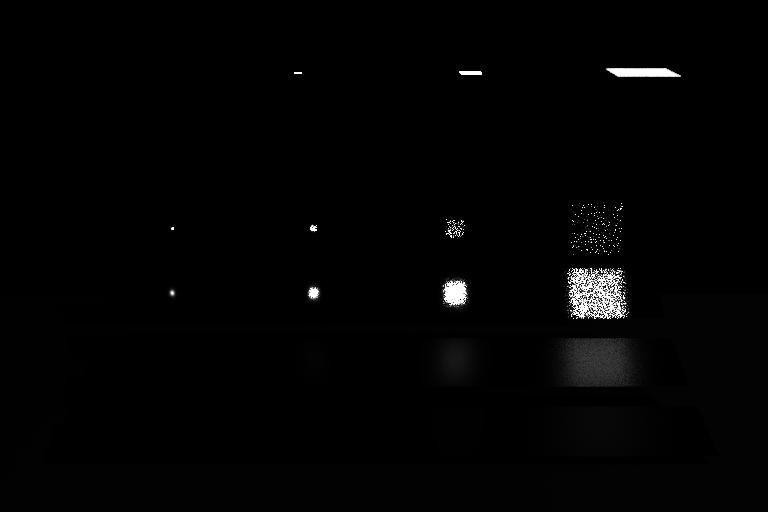
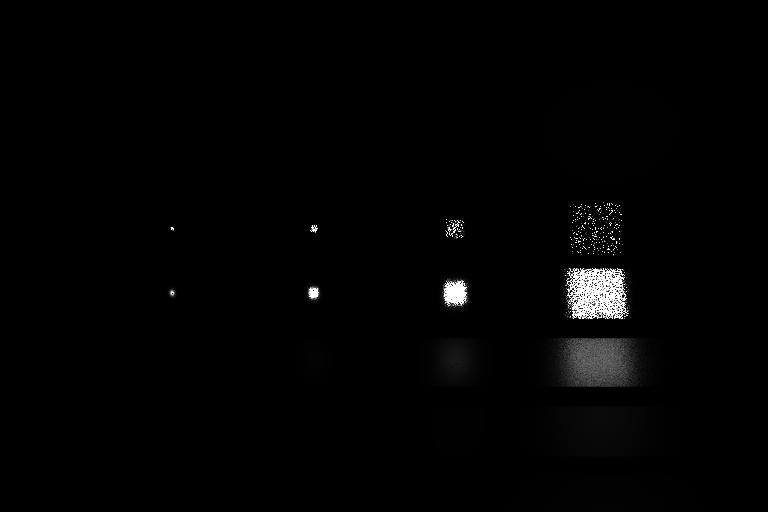
More BRDF improvements to MIS

diff --git a/src/raytracer.cpp b/src/raytracer.cpp
@@ -1007,13 +1007,14 @@ glm::vec3 PathTracerFindColor(UniformGrid* grid, const Ray& ray, Scene* scene, C
 
 	float pdfNEE = 1.0f;
 	float pdfBRDF = 1.0f;
+	float pdfL2 = 1.0f;
 
 	if (useNEE == "on" || useNEE == "mis")
 	{
-		if (depth == 0)
+	/*	if (depth == 0)
 		{
 			accumCol += throughput * intersection.hitObjectEmission;
-		}
+		}*/
 
 		std::vector<QuadLight*> lights = scene->GetQuadLights();
 		for (QuadLight* light : lights)
@@ -1062,6 +1063,7 @@ glm::vec3 PathTracerFindColor(UniformGrid* grid, const Ray& ray, Scene* scene, C
 				if (intersection.brdf == "phong")
 				{
 					brdf = (intersection.hitObjectDiffuse / (float)M_PI) + (intersection.hitObjectSpecular * ((intersection.hitObjectShininess + 2) / (float)(M_PI * 2.0f))) * (glm::pow(reflectVecDotWo, intersection.hitObjectShininess));
+					pdfBRDF = ((intersection.hitObjectShininess + 1) / (float)(2.0f * M_PI)) * glm::pow(reflectVecDotWo, intersection.hitObjectShininess);
 				}
 				else if (intersection.brdf == "ggx")
 				{
@@ -1101,13 +1103,14 @@ glm::vec3 PathTracerFindColor(UniformGrid* grid, const Ray& ray, Scene* scene, C
 					if (lightSample.didHit == true)
 					{
 						float pdfLight = distanceToLight * distanceToLight / (lightArea * std::max(glm::dot(lightNormal, dir), 0.0f));
-						pdfNEE += pdfLight * pdfLight;
+						pdfNEE += (pdfLight * pdfLight);
+						pdfL2 = (pdfLight * pdfLight);
 					}
 				}
 				perLight += brdf * G;
 			}
 
-			float weight = pdfBRDF * pdfBRDF / pdfNEE;
+			float weight = glm::max(pdfBRDF * pdfBRDF, 1e-6f) / pdfL2;
 			pdfNEE /= samples;
 			pdfNEE /= lights.size();
 
